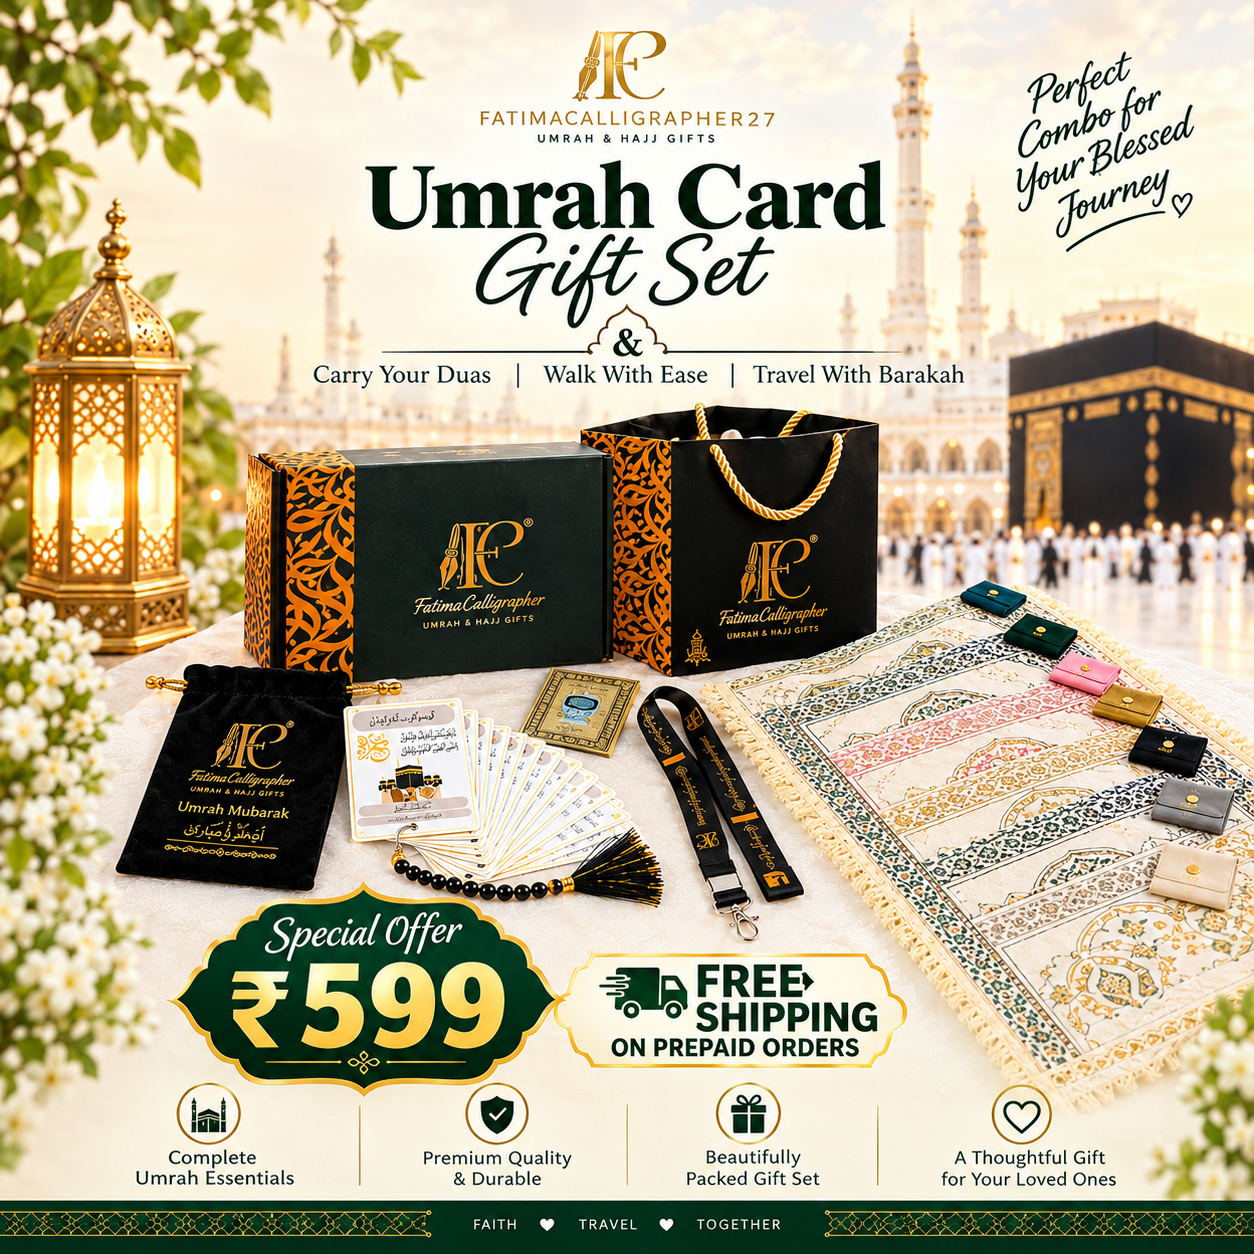
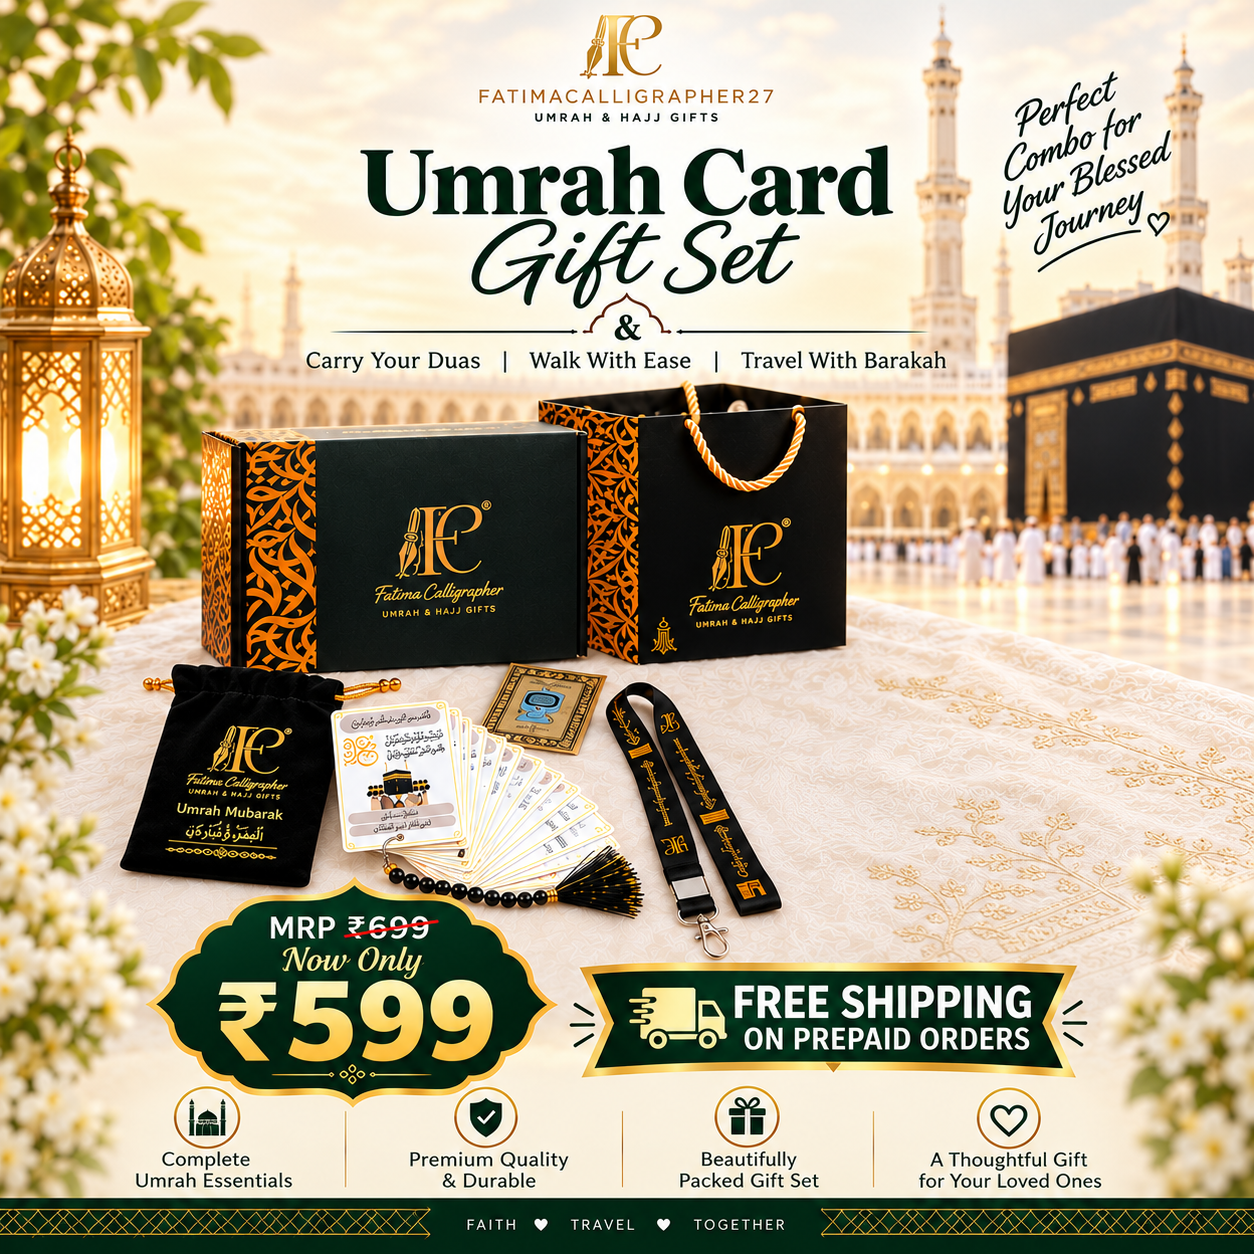
sdf

diff --git a/index.html b/index.html
@@ -298,7 +298,7 @@
                     <!-- Banner 1: Special Offer (₹599) -->
                     <div onclick="window.location.href='product.html?id=1&variant=0'" class="group relative rounded-2xl overflow-hidden border border-gold-500/40 bg-black/40 backdrop-blur-xs shadow-[0_8px_30px_rgba(0,0,0,0.5)] hover:border-gold-400 hover:shadow-[0_12px_35px_rgba(197,154,63,0.25)] transition-all duration-300 cursor-pointer">
                         <img src="product/offer/banner_1.webp" 
-                             alt="Umrah Card Gift Set - MRP ₹699 Now Only ₹599 - FREE Shipping on Prepaid Orders" 
+                             alt="Umrah Card Gift Set - Special Offer ₹599 - FREE Shipping on Prepaid Orders" 
                              fetchpriority="high" decoding="async" 
                              width="1200" height="1200"
                              class="w-full h-auto object-contain rounded-2xl block group-hover:scale-[1.01] transition-transform duration-500">
@@ -322,7 +322,7 @@
                     <!-- Banner 4: Special Offer (₹599) -->
                     <div onclick="window.location.href='product.html?id=1&variant=0'" class="group relative rounded-2xl overflow-hidden border border-gold-500/40 bg-black/40 backdrop-blur-xs shadow-[0_8px_30px_rgba(0,0,0,0.5)] hover:border-gold-400 hover:shadow-[0_12px_35px_rgba(197,154,63,0.25)] transition-all duration-300 cursor-pointer">
                         <img src="product/offer/banner_4.webp" 
-                             alt="Umrah Card Gift Set Special Offer ₹599 - FREE Shipping on Prepaid Orders" 
+                             alt="Umrah Card Gift Set - MRP ₹699 Now Only ₹599 - FREE Shipping on Prepaid Orders" 
                              decoding="async" 
                              width="1200" height="1200"
                              class="w-full h-auto object-contain rounded-2xl block group-hover:scale-[1.01] transition-transform duration-500">
@@ -336,7 +336,7 @@
                         <div id="hero-carousel-track" class="flex transition-transform duration-500 ease-out w-full">
                             <div class="w-full flex-shrink-0 cursor-pointer" onclick="window.location.href='product.html?id=1&variant=0'">
                                 <img src="product/offer/banner_1.webp" 
-                                     alt="Umrah Card Gift Set - MRP ₹699 Now Only ₹599 - FREE Shipping on Prepaid Orders" 
+                                     alt="Umrah Card Gift Set - Special Offer ₹599 - FREE Shipping on Prepaid Orders" 
                                      fetchpriority="high" decoding="async" 
                                      width="1200" height="1200"
                                      class="w-full h-auto object-contain rounded-xl block">
@@ -357,7 +357,7 @@
                             </div>
                             <div class="w-full flex-shrink-0 cursor-pointer" onclick="window.location.href='product.html?id=1&variant=0'">
                                 <img src="product/offer/banner_4.webp" 
-                                     alt="Umrah Card Gift Set Special Offer ₹599 - FREE Shipping on Prepaid Orders" 
+                                     alt="Umrah Card Gift Set - MRP ₹699 Now Only ₹599 - FREE Shipping on Prepaid Orders" 
                                      decoding="async" 
                                      width="1200" height="1200"
                                      class="w-full h-auto object-contain rounded-xl block">
